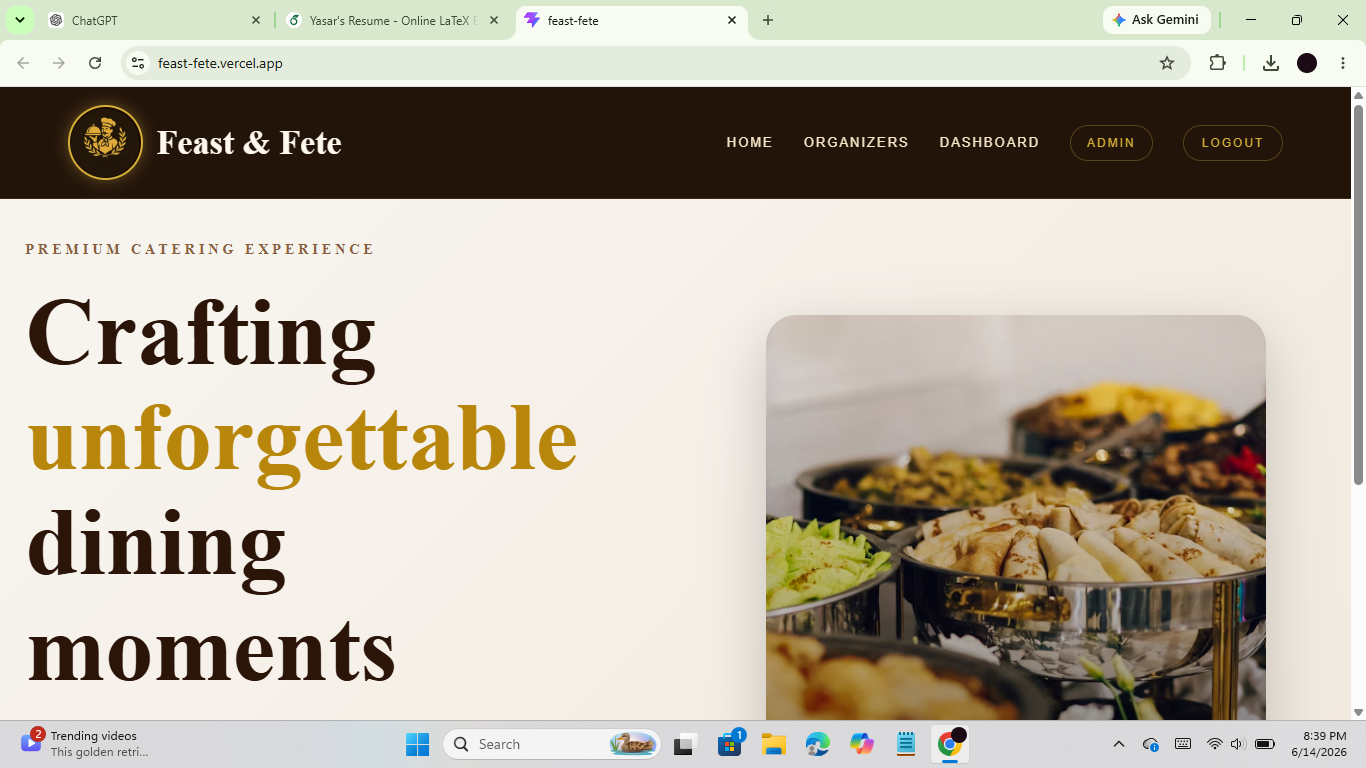
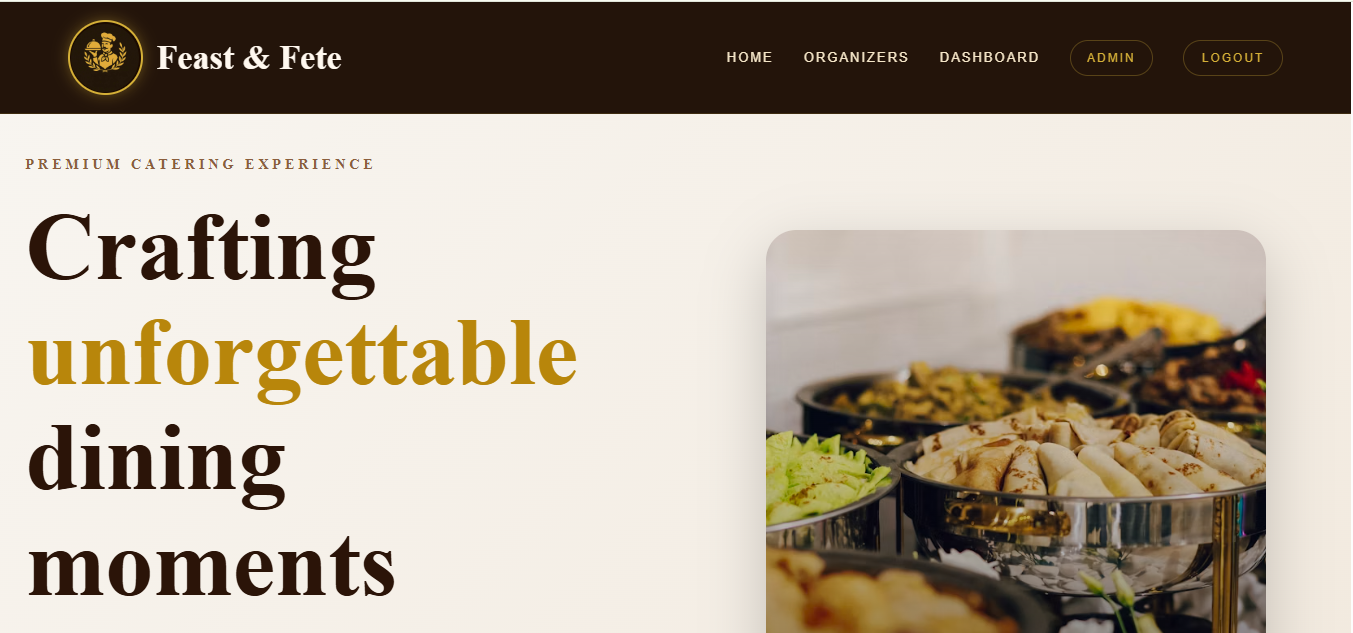
profile photo update

diff --git a/src/App.css b/src/App.css
@@ -923,18 +923,30 @@ section{
   line-height:1.8;
 }
 
-.hero-image{
-  flex:1;
-  display:flex;
-  justify-content:center;
+.hero-image {
+  display: flex;
+  justify-content: center;
+  align-items: center;
 }
 
-.hero-image img{
-  width:380px;
-  height:380px;
-  object-fit:cover;
-  border-radius:50%;
-  border:4px solid #00C2A8;
+.hero-image img {
+  width: 380px;
+  height: 520px;
+  object-fit: cover;
+  border-radius: 25px;
+
+  border: 3px solid #00c2a8;
+
+  box-shadow:
+    0 0 20px rgba(0, 194, 168, 0.5),
+    0 0 40px rgba(0, 194, 168, 0.4),
+    0 0 60px rgba(0, 194, 168, 0.3);
+
+  transition: all 0.4s ease;
+}
+
+.hero-image img:hover {
+  transform: translateY(-10px) scale(1.02);
 }
 
 .hero-buttons{
@@ -964,9 +976,9 @@ section{
     font-size:3.5rem;
   }
 
-  .hero-image img{
-    width:320px;
-    height:320px;
+  .hero-image img {
+    width: 330px;
+    height: 470px;
   }
 
 }
@@ -984,8 +996,8 @@ section{
   }
 
   .hero-image img{
-    width:280px;
-    height:280px;
+    width: 300px;
+    height: 400px;
   }
 
   .hero-badges{
@@ -1015,9 +1027,15 @@ section{
     font-size:.95rem;
   }
 
-  .hero-image img{
-    width:230px;
-    height:230px;
+  .hero-content {
+    flex-direction: column-reverse;
+    text-align: center;
+    gap: 40px;
+  }
+
+  .hero-image img {
+    width: 280px;
+    height: 380px;
   }
 
 }
@@ -1028,17 +1046,17 @@ section{
     padding:0 15px;
   }
 
-  .hero-text h1{
-    font-size:2rem;
+  .hero-image img {
+    width: 230px;
+    height: 320px;
   }
 
-  .hero-text h2{
-    font-size:1.2rem;
+  .hero h1 {
+    font-size: 3rem;
   }
 
-  .hero-image img{
-    width:200px;
-    height:200px;
+  .hero h2 {
+    font-size: 1.3rem;
   }
 
   .hero-buttons{
